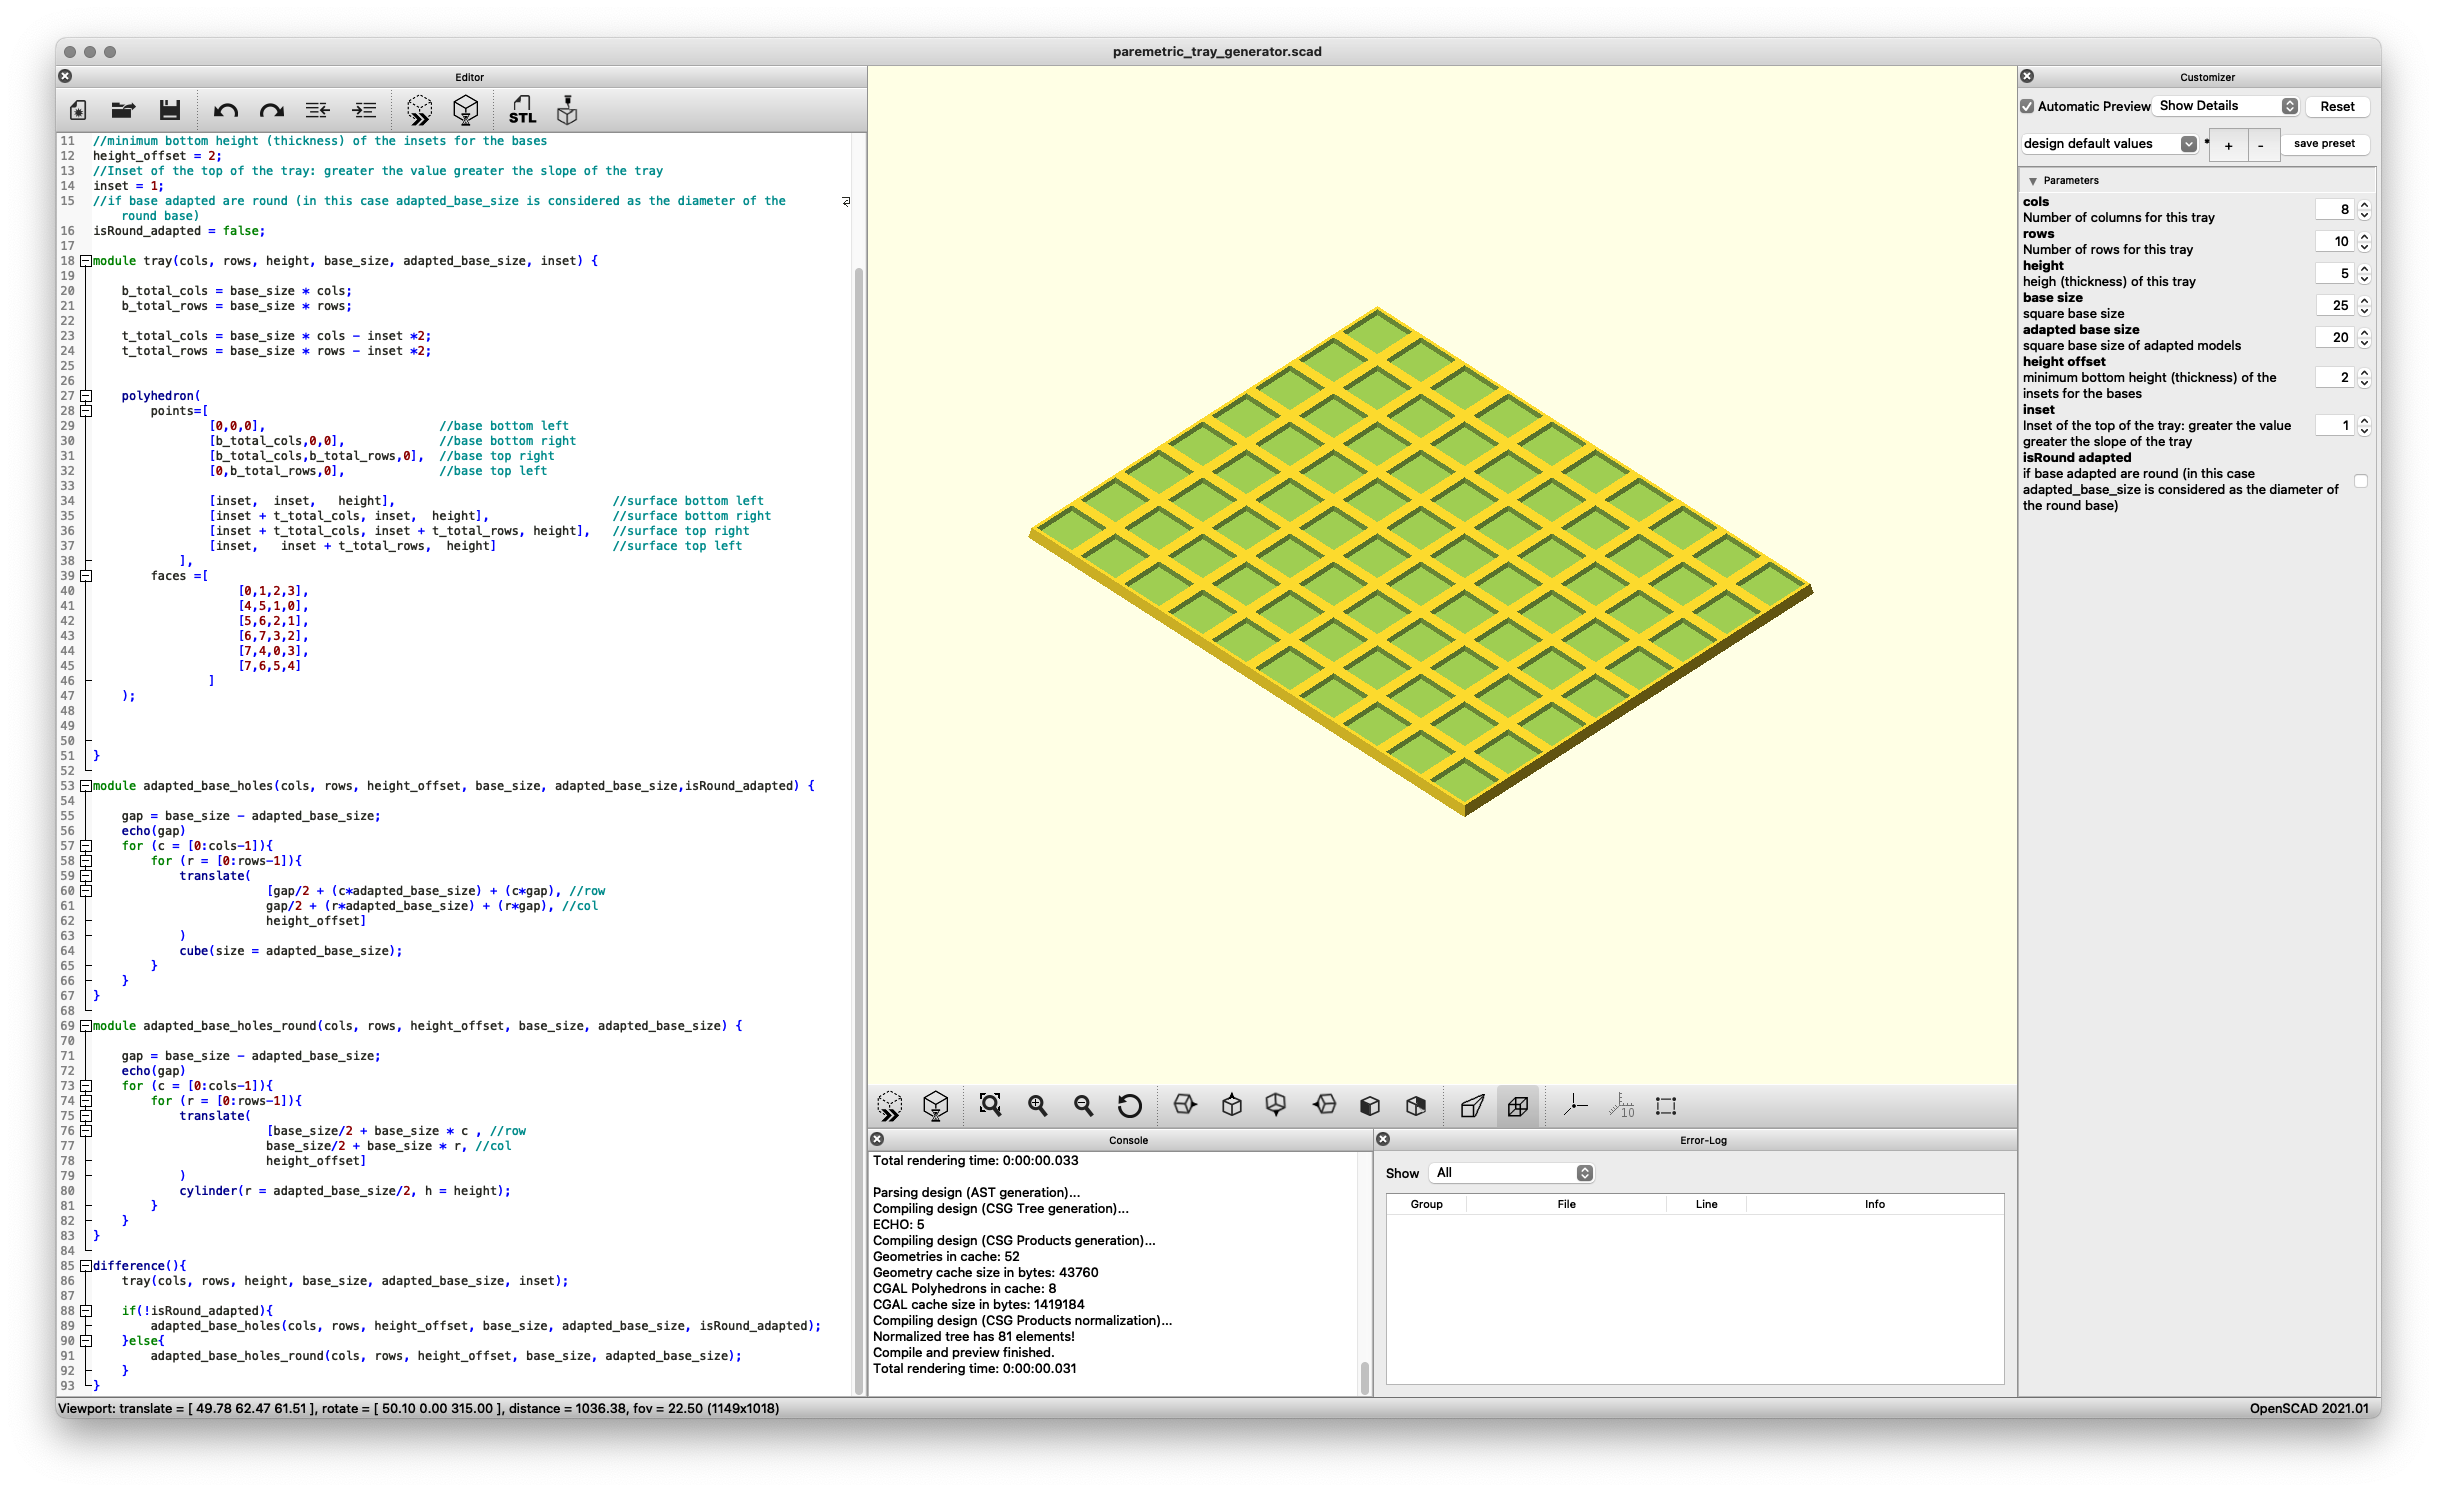
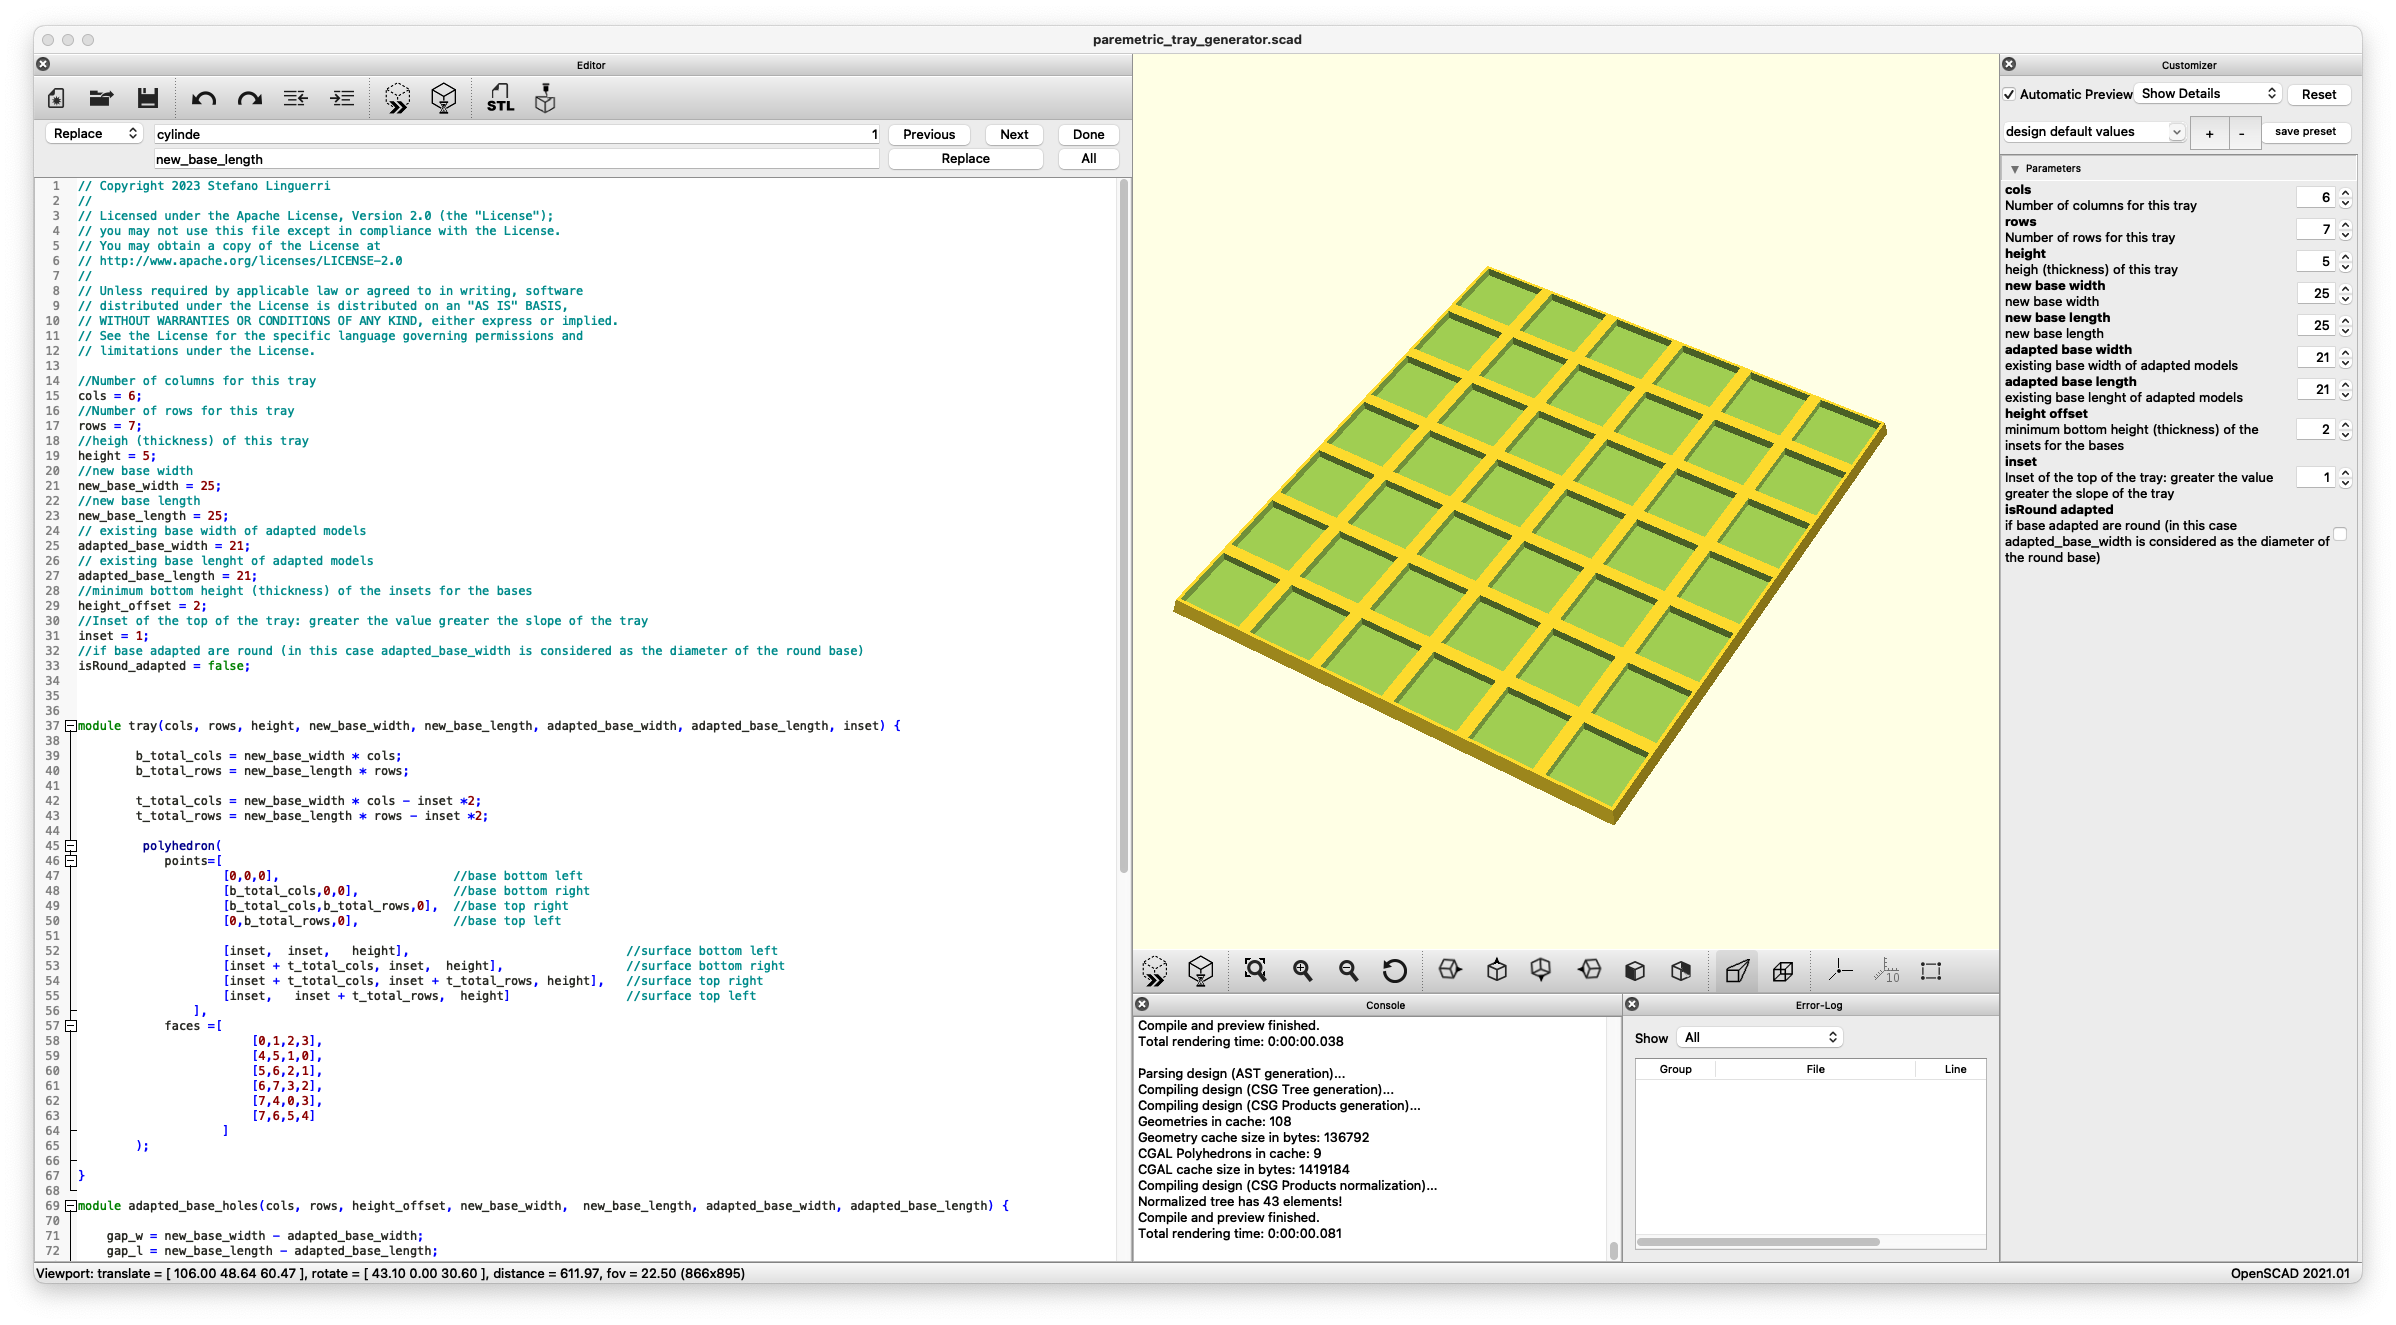
Support for Cavalry Bases close #2

Changed region(s): [[0.0, 0.0, 0.9883, 0.9902], [0.803, 0.8045, 0.8339, 0.8355]]

diff --git a/README.md b/README.md
@@ -17,6 +17,8 @@ Will generate a tray with 6 cols and 3 rows calculated for default 25mm square b
 
 The script can also generate a tray to adapt round bases setting ```isRound_adapted``` to true (default is false)
 
+If you use different values for width and lenght you can generate also adapters for cavalry
+
 ### Parameters
 
 ```cols```  Number of columns for this tray
@@ -25,9 +27,13 @@ The script can also generate a tray to adapt round bases setting ```isRound_adap
 
 ```height``` heigh (thickness) of the tray
 
-```base_size```  square base size 
+```new_base_width```  new base width 
 
-```adapted_base_size``` square base size of adapted models
+```new_base_length```  new base length  
+
+```adapted_base_width``` existing base width of adapted models
+
+```adapted_base_length``` existing base lenght of adapted models
 
 ```height_offset``` minimum bottom height (thickness) of the insets for the bases
 
@@ -41,10 +47,14 @@ A square 20mm to 25mm sample:
 
 <img src="sample_tray.png" alt= “sample” width="400" >
 
-
 A round 25mm to 25mm sample:
 
 <img src="main_round_02.png" alt= “sample” width="600" >
+
+A rectangular 25x50mm to 30x60mm sample:
+
+<img src="rectangular.png" alt= “sample” width="600" >
+
 
 ## License
 
